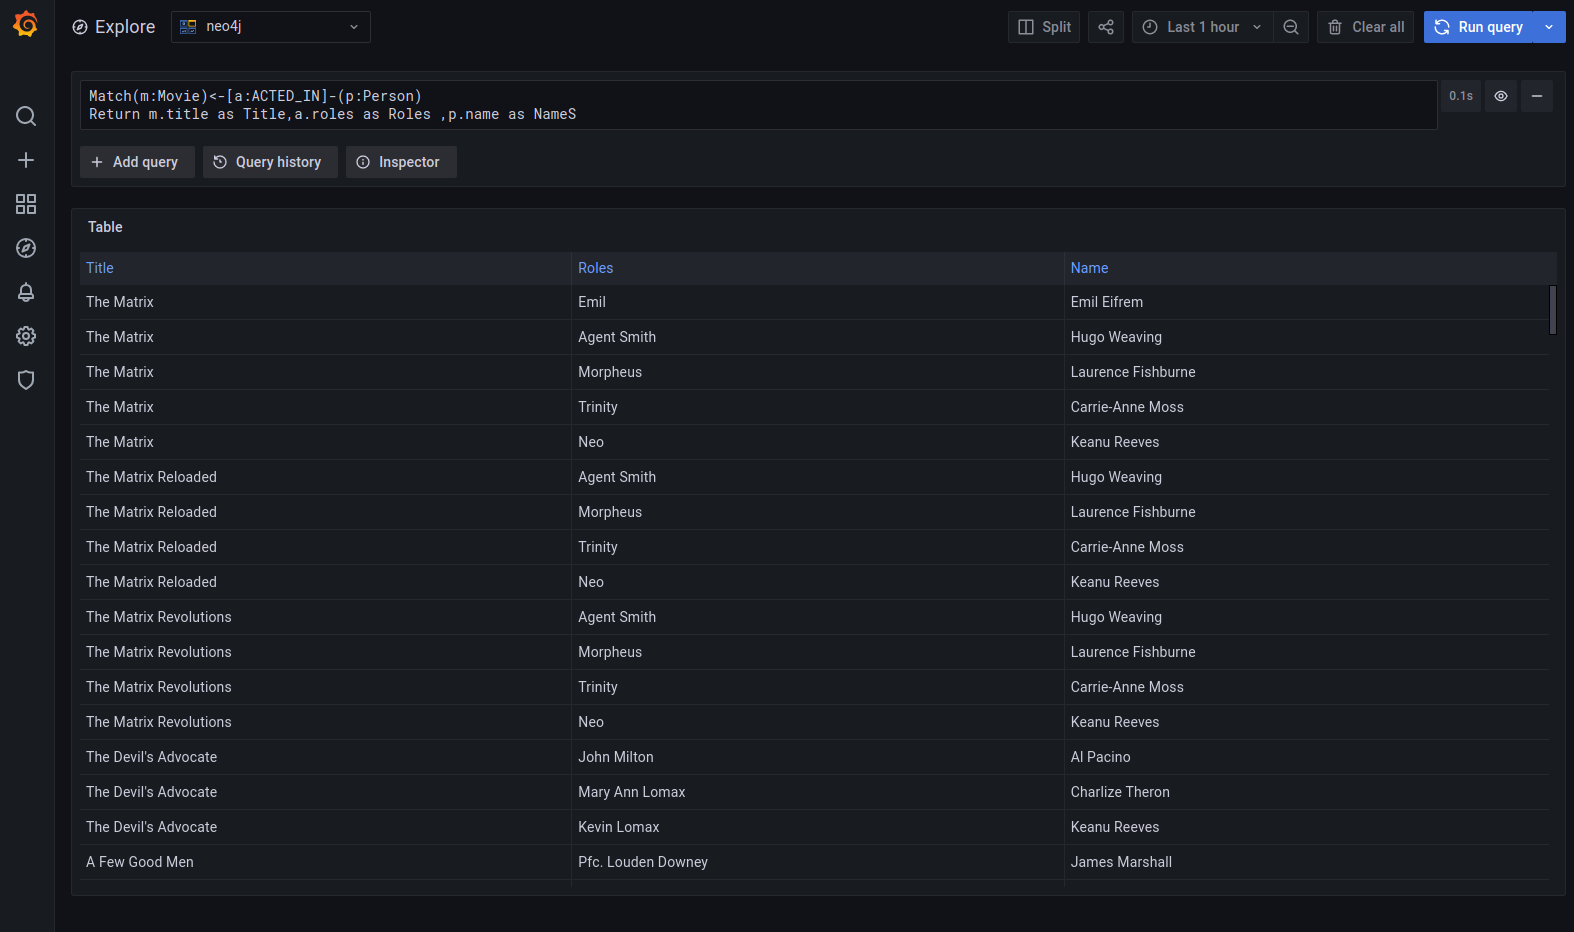
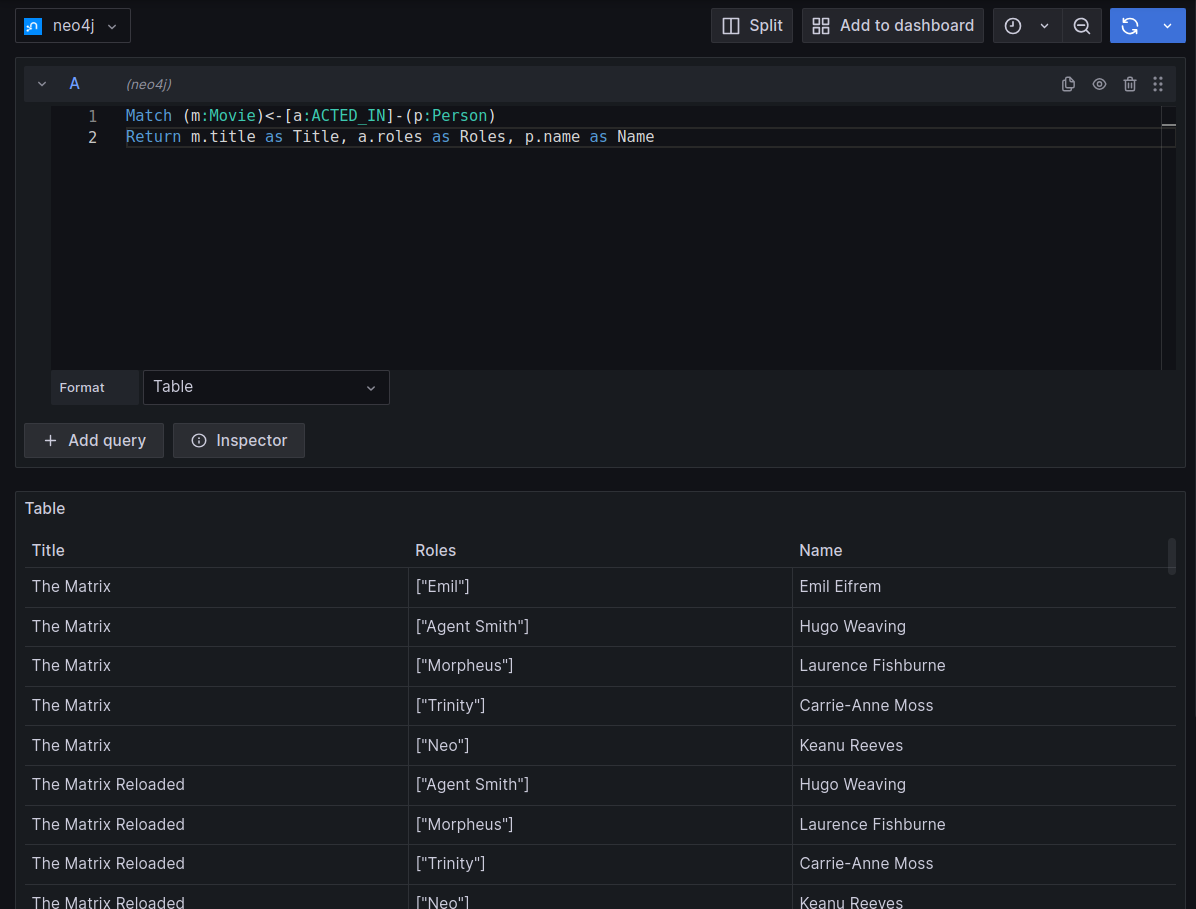
Update Readme with screenshots of newer version

diff --git a/neo4j-datasource-plugin/README.md b/neo4j-datasource-plugin/README.md
@@ -10,9 +10,14 @@ Configure Neo4j as DataSource
 
 ## Query Data
 
-Query Neo4j DataSource with Cypher Query Language
+Query Neo4j DataSource with Cypher Query Language and display as Table
 
 ![DataSource Query Editor](https://raw.githubusercontent.com/denniskniep/grafana-datasource-plugin-neo4j/main/neo4j-datasource-plugin/src/img/DataSourceQueryEditor.png)
+
+
+Query Neo4j DataSource with Cypher Query Language and display as Graph
+
+![DataSource Query Editor](https://raw.githubusercontent.com/denniskniep/grafana-datasource-plugin-neo4j/main/neo4j-datasource-plugin/src/img/DataSourceQueryEditorGraph.png)
 
 
 ## Links
